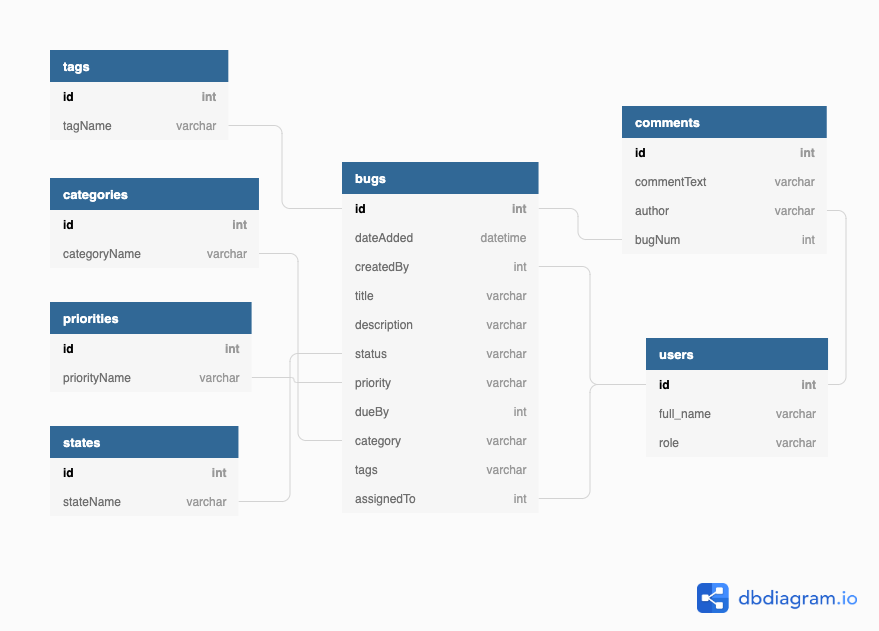
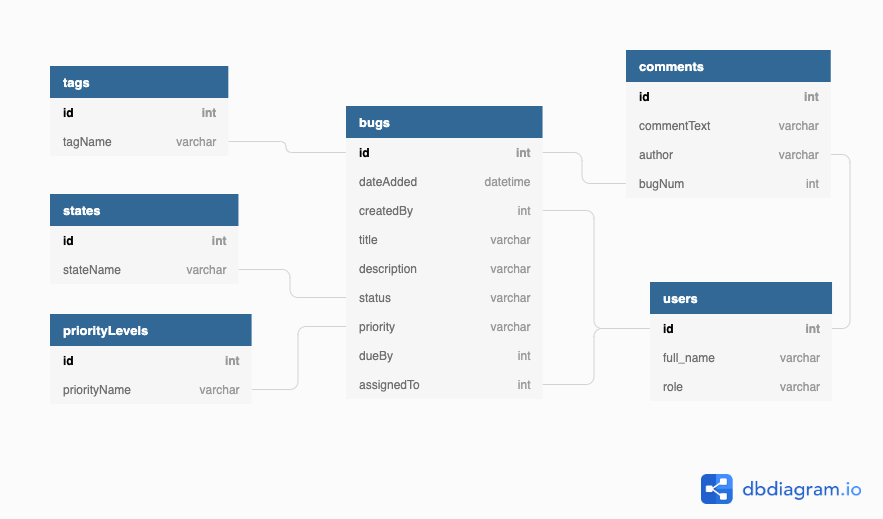
add user mockup and update README

diff --git a/README.md b/README.md
@@ -15,6 +15,7 @@ Sqaush will be adapted in different stacks to show versatility. It will also be 
 Electron so it can stand alone as an application.
 
 **User Stories:**
+
 *1)* Squash will be secured via authentication/authorization (AuthO?).
 
 *2)* Bugs can be entered into the tracker. Each bug will have a title and description, along with
@@ -28,7 +29,7 @@ assignment information, priority, status, appropriate tags (sorting), dueBy date
 
 #### Progress
 
-I am currently looking at the database design. The following is a representation of what I 
-think is needed thus far. I will begin wireframing for front-end UI next.
+I am currently making adjustments to the DB design as I work on mockups for non-admin users.
 
 ![alt text](./planning/db_diagram.png "DB diagram")
+![alt text](./planning/mockup_user_open_bug.png "User MockUp")
